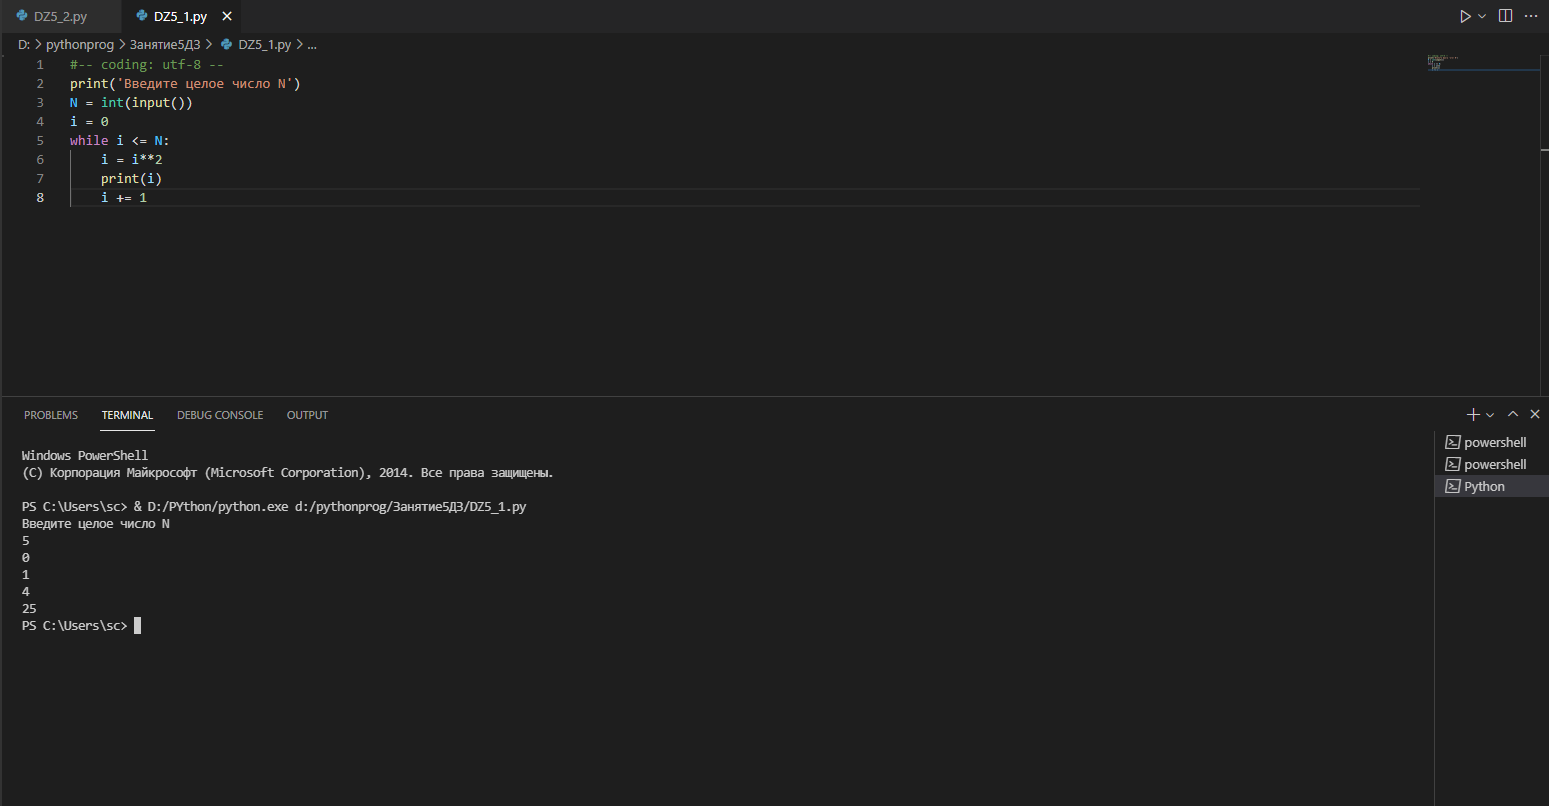
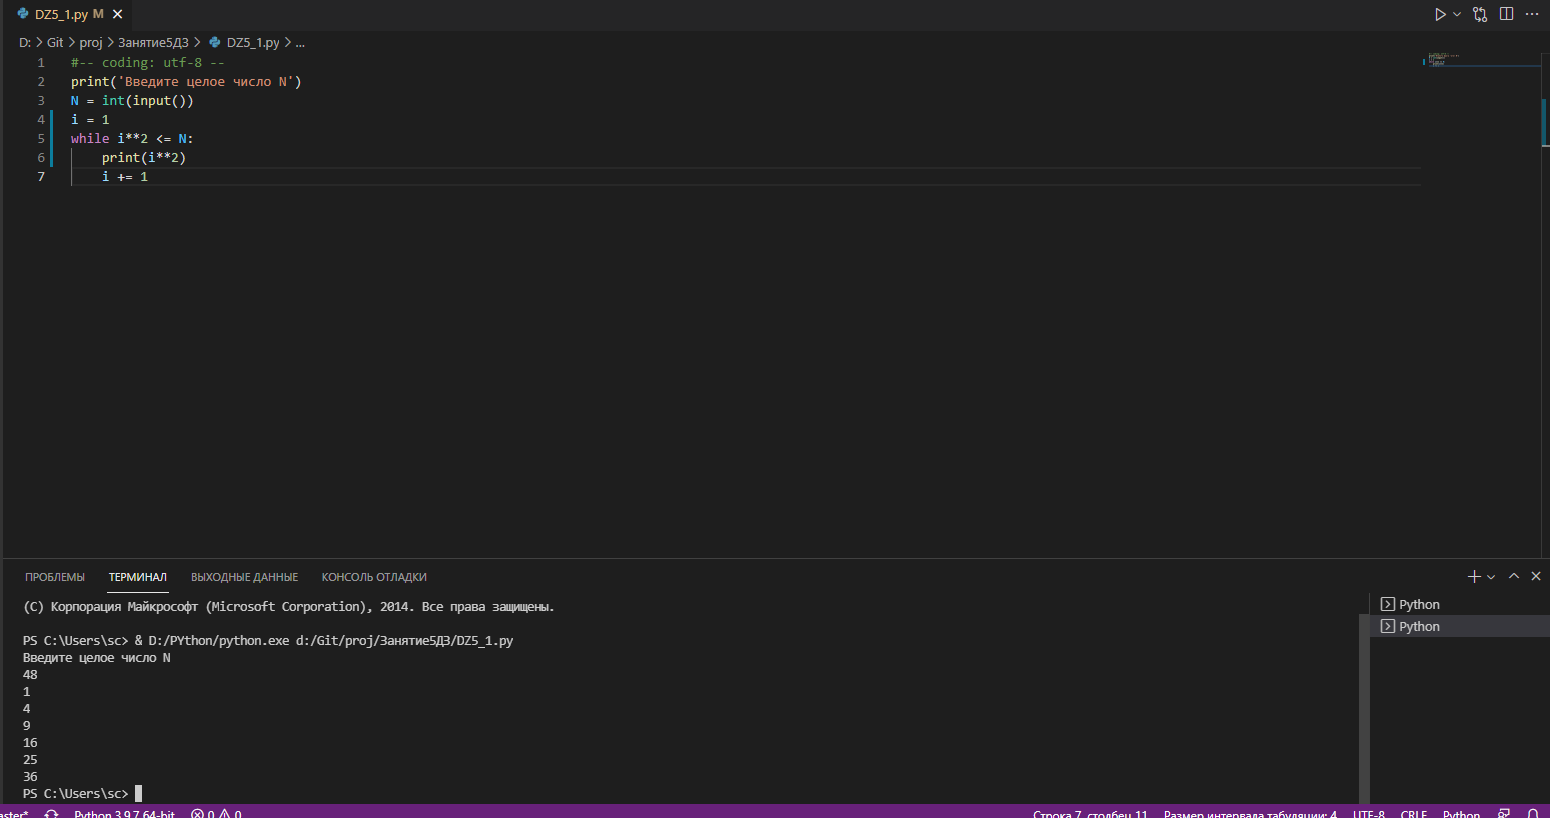
Переделал номера 1,4

diff --git a/Занятие5ДЗ/DZ5_1.py b/Занятие5ДЗ/DZ5_1.py
@@ -1,8 +1,7 @@
 #-- coding: utf-8 --
 print('Введите целое число N')
 N = int(input())
-i = 0
-while i <= N:
-	i = i**2
-	print(i)
+i = 1
+while i**2 <= N:
+	print(i**2)
 	i += 1

diff --git a/Занятие5ДЗ/DZ5_4.py b/Занятие5ДЗ/DZ5_4.py
@@ -2,8 +2,10 @@
 print('Введите числа x,y')
 x = int(input())
 y = int(input())
-i = 1
-while x < y:
+i = 0
+probeg=0
+while probeg < y:
 	x *= 1.1
 	i += 1
+	probeg += x
 print(i)
